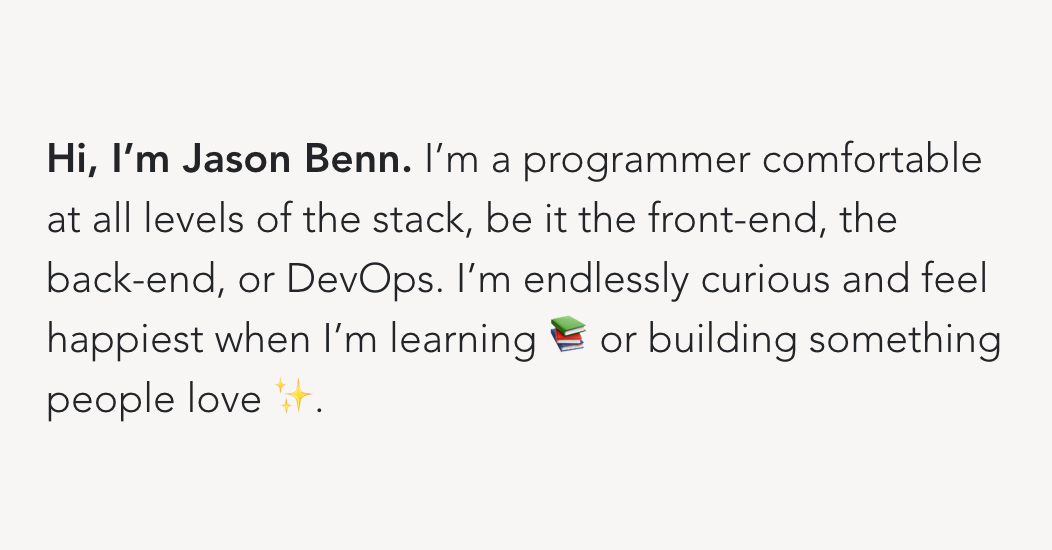
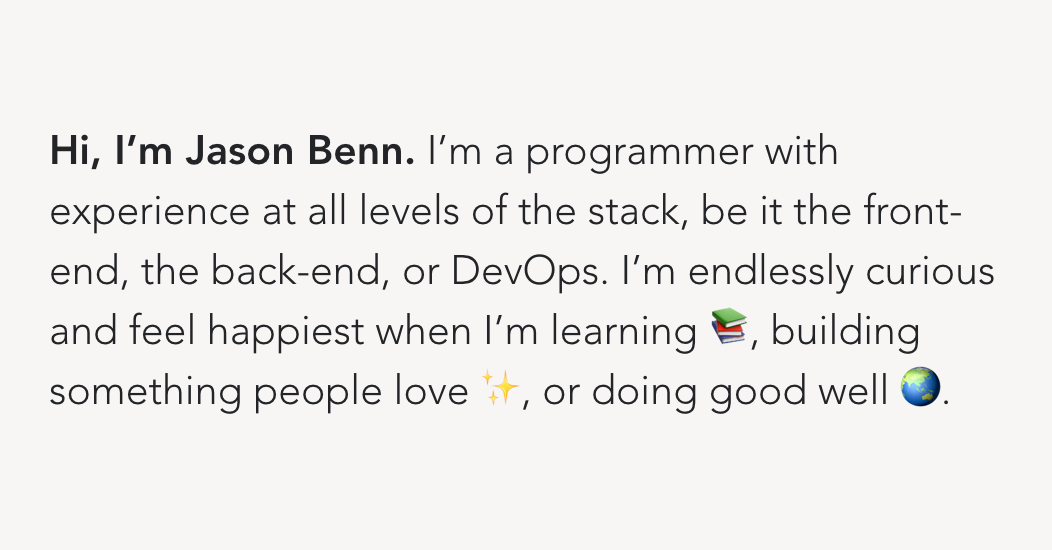
Update blurb.

Changed region(s): [[0.0304, 0.4636, 0.9734, 0.7727], [0.0304, 0.2473, 0.943, 0.4327], [0.0304, 0.68, 0.4867, 0.7727]]

diff --git a/index.html b/index.html
@@ -52,7 +52,7 @@
 
 <body>
   <section class="intro">
-    <h1><strong>Hi, I’m Jason Benn.</strong> I’m a programmer comfortable at all levels of the stack, be it the front-end, the back-end, or DevOps. I’m endlessly curious and feel happiest when I’m learning 📚 or building something people love ✨.</h1>
+    <h1><strong>Hi, I’m Jason Benn.</strong> I’m a programmer with experience at all levels of the stack, be it the front-end, the back-end, or DevOps. I’m endlessly curious and feel happiest when I’m learning 📚, building something people love ✨, or doing good well 🌏.</h1>
   </section>
 
   <div class="divider">
